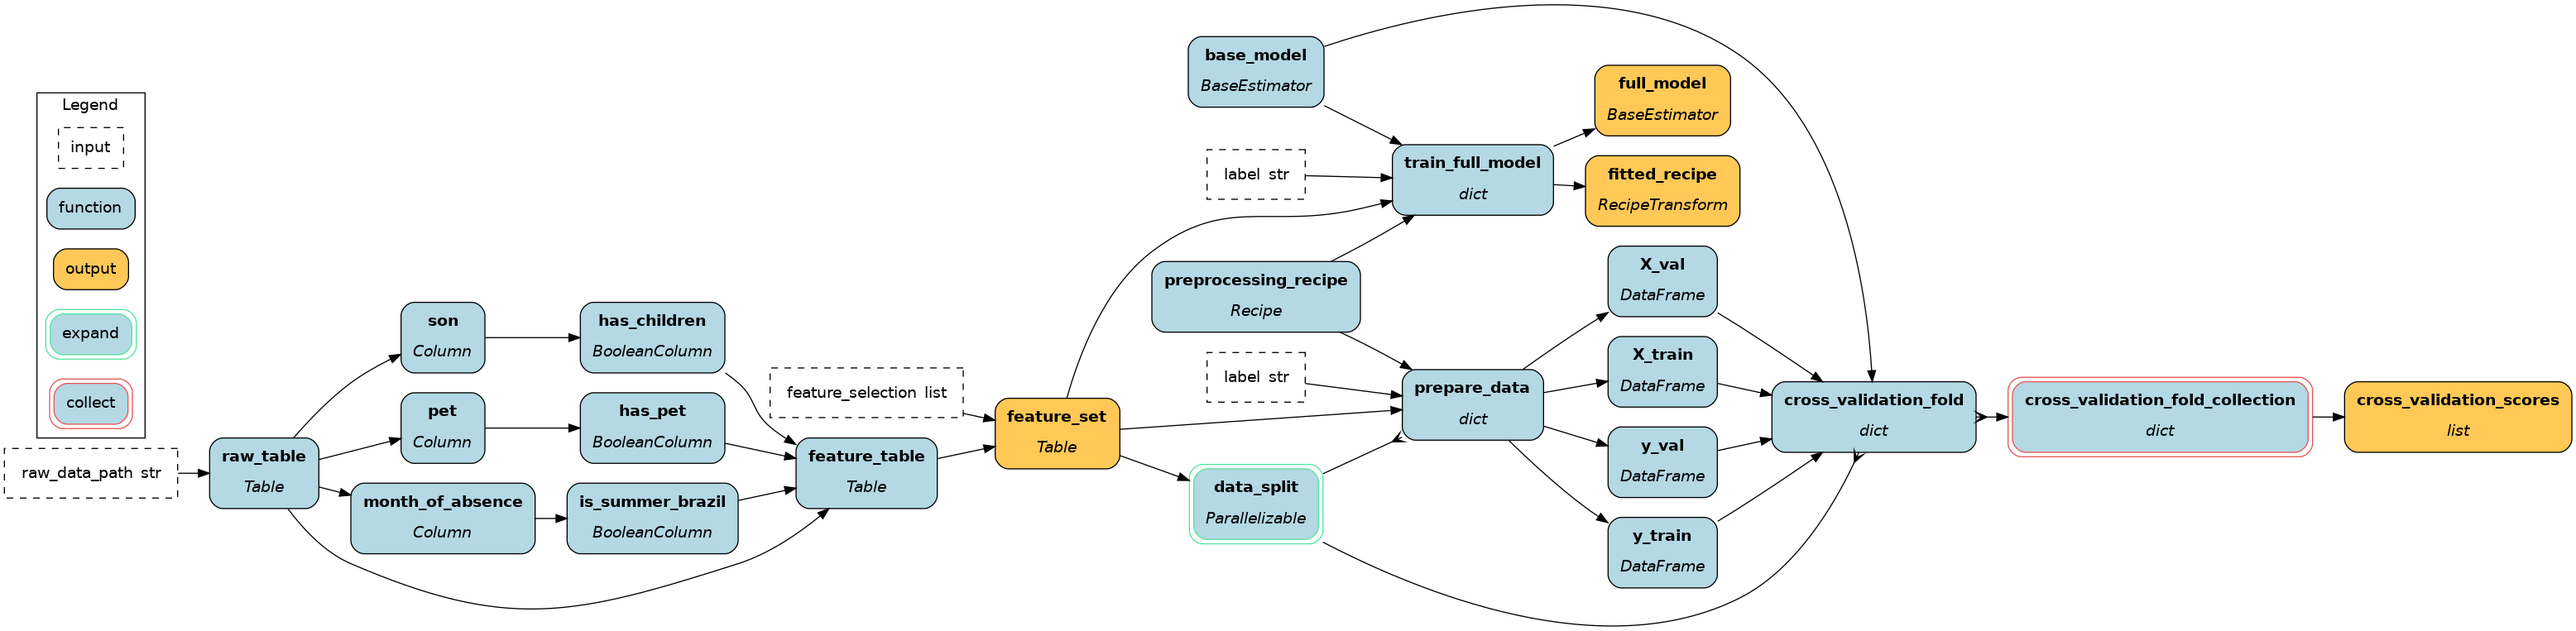
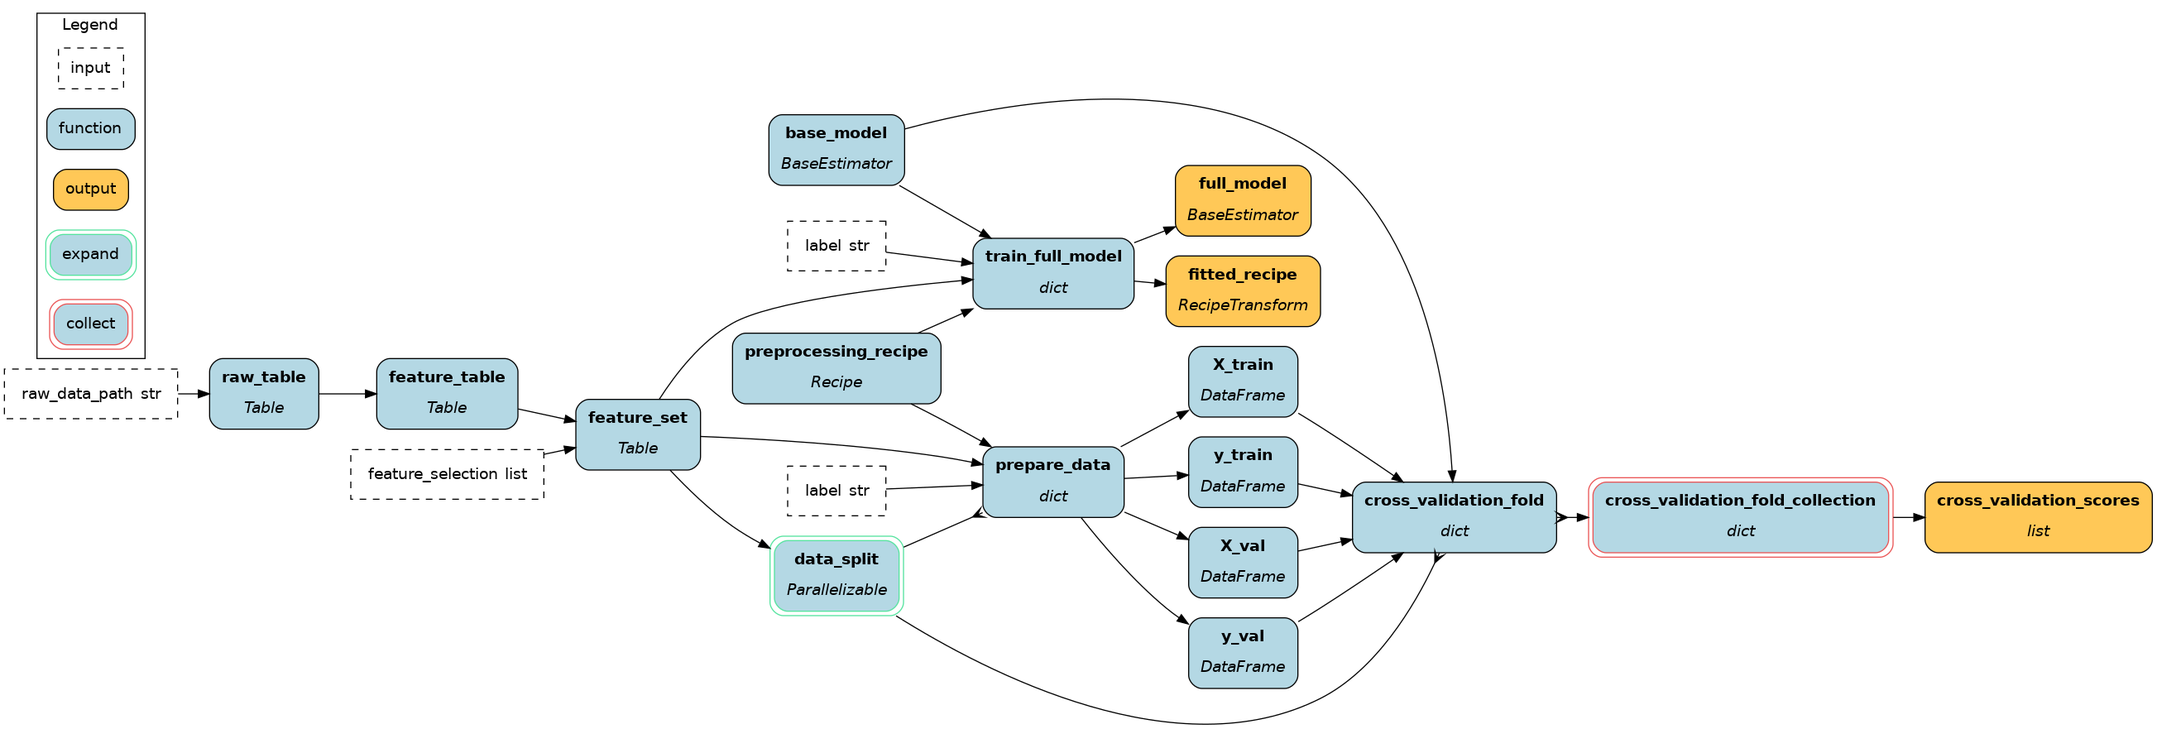
simplified to only table-level dataflow

diff --git a/examples/ibisml/run.py b/examples/ibisml/run.py
@@ -1,6 +1,6 @@
 from hamilton import driver
-from hamilton.plugins.h_tqdm import ProgressBar
 from hamilton.execution.executors import SynchronousLocalTaskExecutor
+from hamilton.plugins.h_tqdm import ProgressBar
 
 
 def view_expression(expression, **kwargs):
@@ -16,33 +16,17 @@ def view_expression(expression, **kwargs):
     return dot
 
 
-def main(level: str, model: str):
-    dataflow_components = []
-    config = {}
-    final_vars = ["feature_set"]
+def main(model: str):
+    import model_training
+    import table_dataflow
 
-    if level == "column":
-        import column_dataflow
-
-        dataflow_components.append(column_dataflow)
-    elif level == "table":
-        import table_dataflow
-
-        dataflow_components.append(table_dataflow)
-    else:
-        raise ValueError("`level` must be in ['column', 'table']")
-
-    if model:
-        import model_training
-
-        dataflow_components.append(model_training)
-        config["model"] = model
-        final_vars.extend(["full_model", "fitted_recipe", "cross_validation_scores"])
+    config = {"model": model}
+    final_vars = ["full_model", "fitted_recipe", "cross_validation_scores"]
 
     # build the Driver from modules
     dr = (
         driver.Builder()
-        .with_modules(*dataflow_components)
+        .with_modules(table_dataflow, model_training)
         .with_config(config)
         .with_adapters(ProgressBar())
         .enable_dynamic_execution(allow_experimental_mode=True)
@@ -68,7 +52,6 @@ def main(level: str, model: str):
     )
 
     res = dr.execute(final_vars, inputs=inputs)
-    view_expression(res["feature_set"], filename="ibis_feature_set", format="png")
 
     print("Dataflow result keys: ", list(res.keys()))
 
@@ -77,8 +60,7 @@ if __name__ == "__main__":
     import argparse
 
     parser = argparse.ArgumentParser()
-    parser.add_argument("--level", choices=["column", "table"])
     parser.add_argument("--model", choices=["linear", "random_forest", "boosting"])
     args = parser.parse_args()
 
-    main(level=args.level, model=args.model)
+    main(model=args.model)

diff --git a/examples/ibisml/model_training.py b/examples/ibisml/model_training.py
@@ -79,11 +79,11 @@ def prepare_data(
     train = transform(train_set)
     df_train = train.to_pandas()
     X_train = df_train[train.features]
-    y_train = df_train[train.outcomes]
+    y_train = df_train[train.outcomes].to_numpy().reshape(-1)
 
     df_test = transform(val_set).to_pandas()
     X_val = df_test[train.features]
-    y_val = df_test[train.outcomes]
+    y_val = df_test[train.outcomes].to_numpy().reshape(-1)
 
     return dict(
         X_train=X_train,
@@ -161,7 +161,7 @@ def train_full_model(
     data = transform(feature_set)
     df = data.to_pandas()
     X = df[data.features]
-    y = df[data.outcomes]
+    y = df[data.outcomes].to_numpy().reshape(-1)
 
     base_model.fit(X, y)
     return dict(
